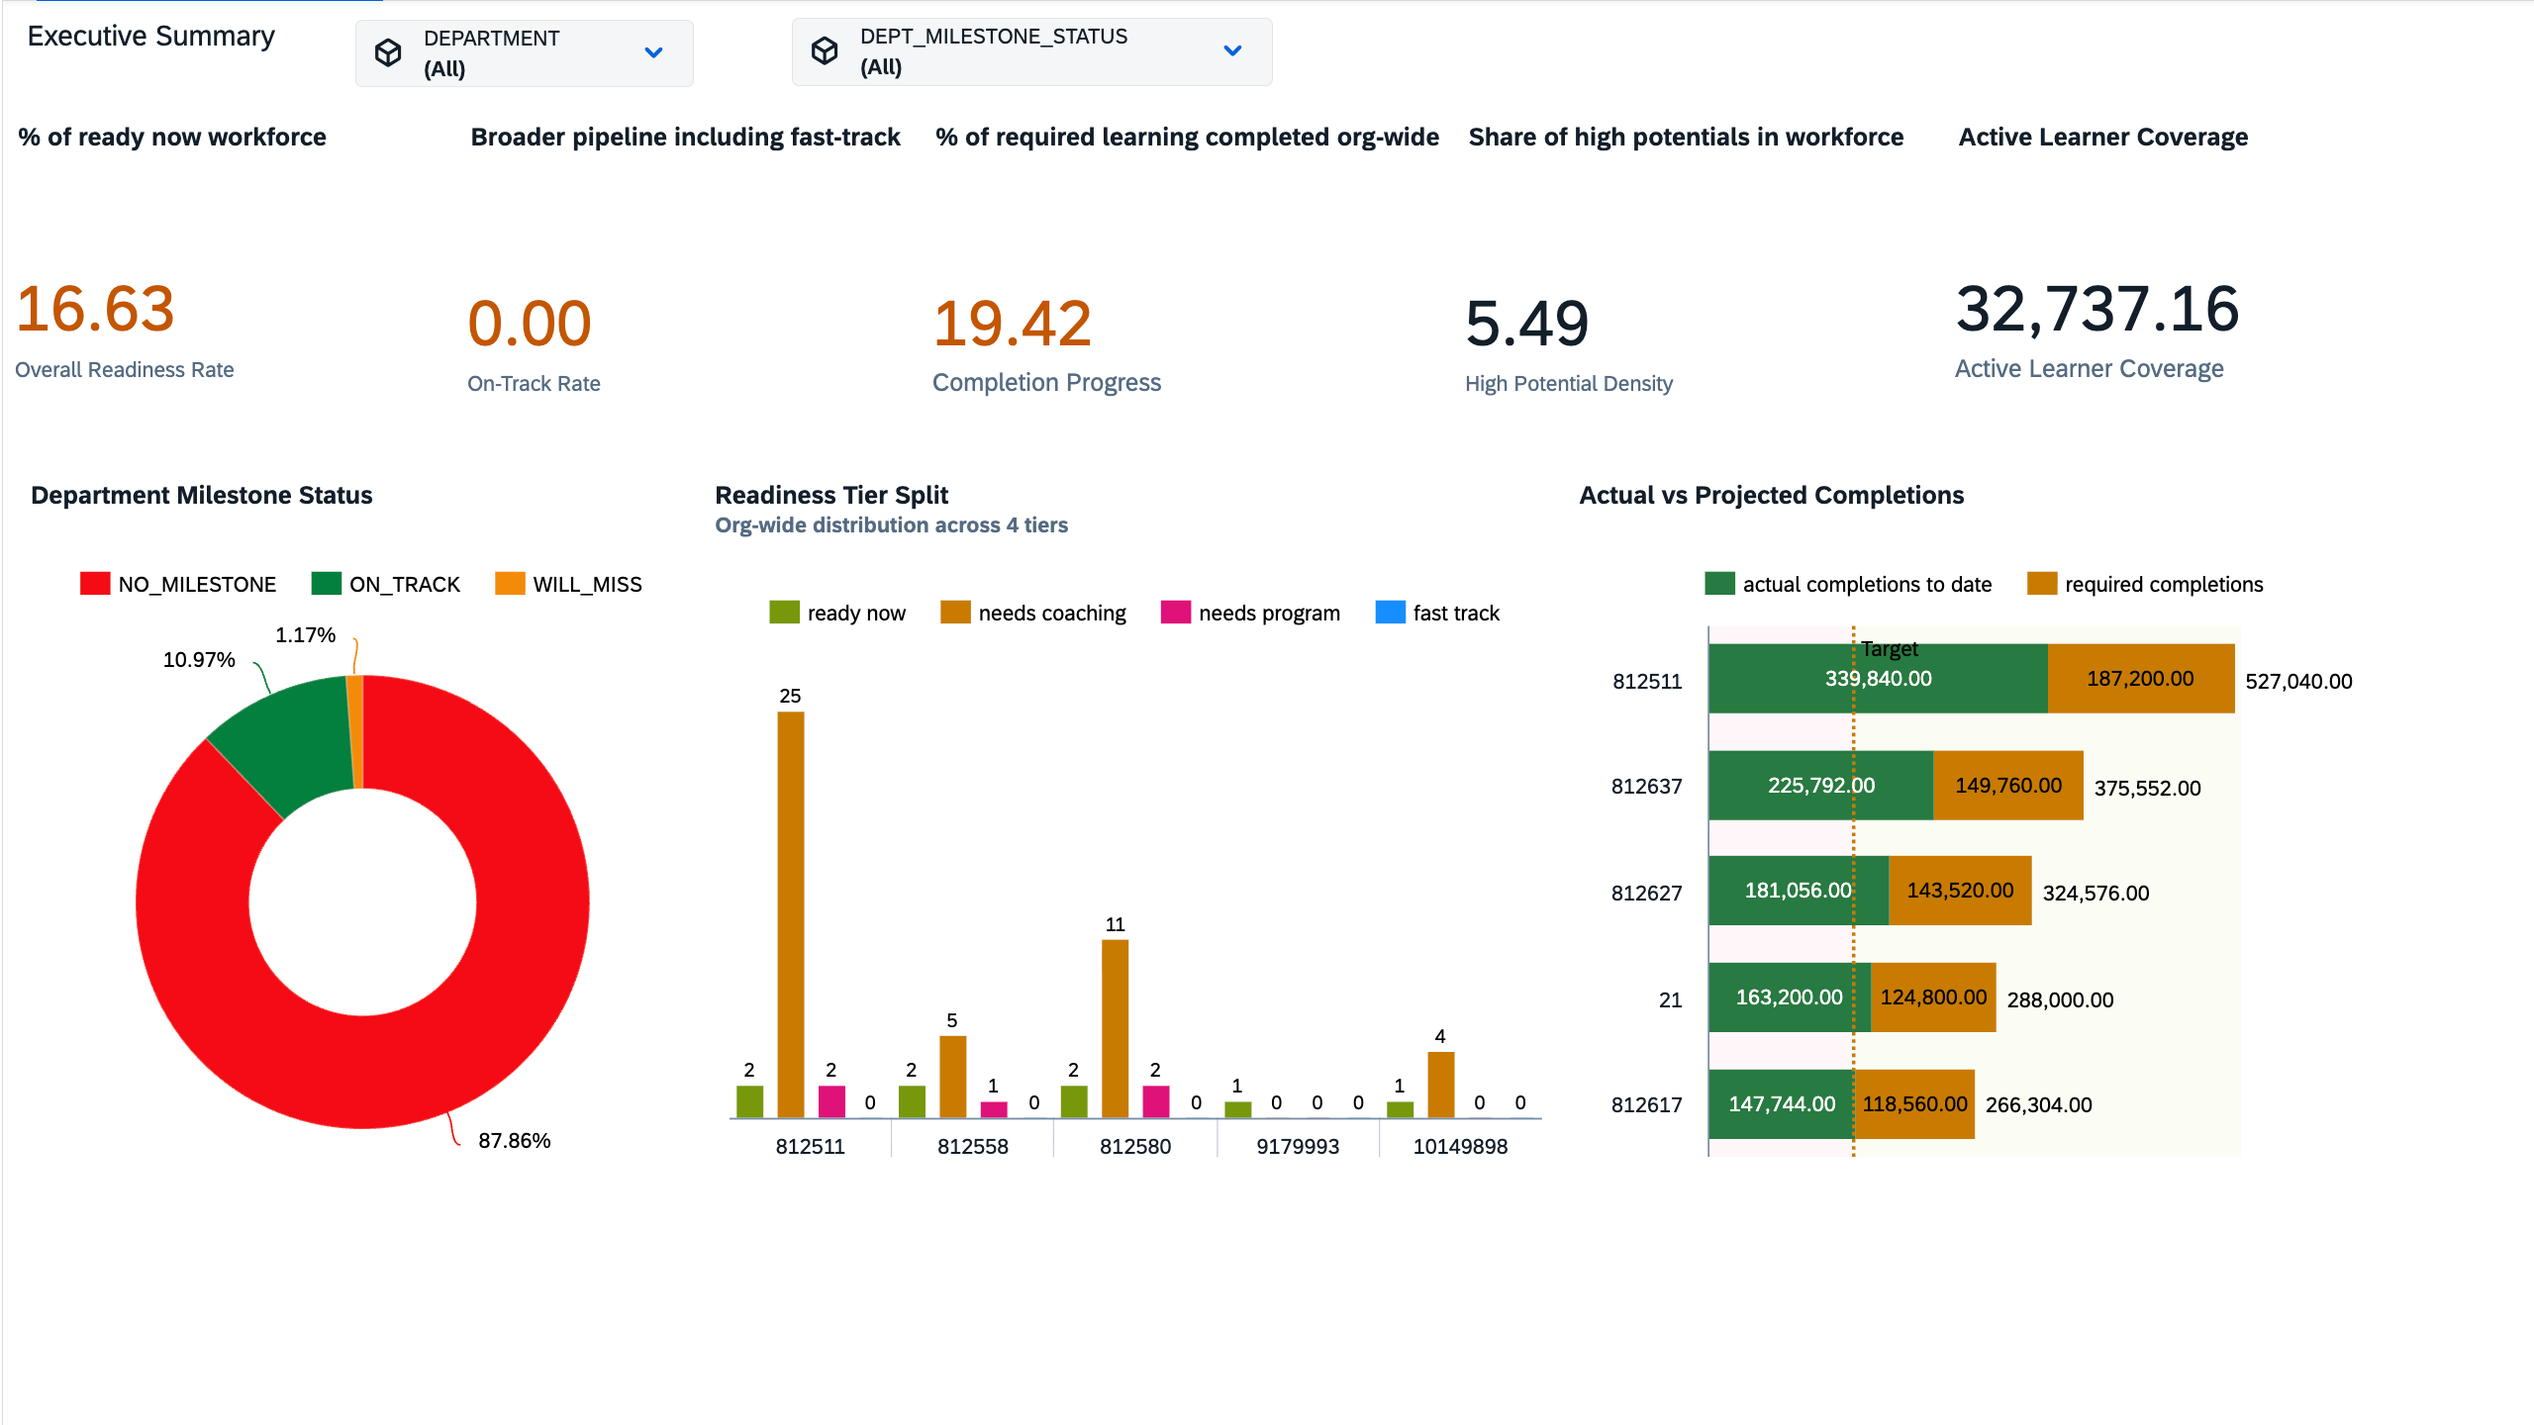
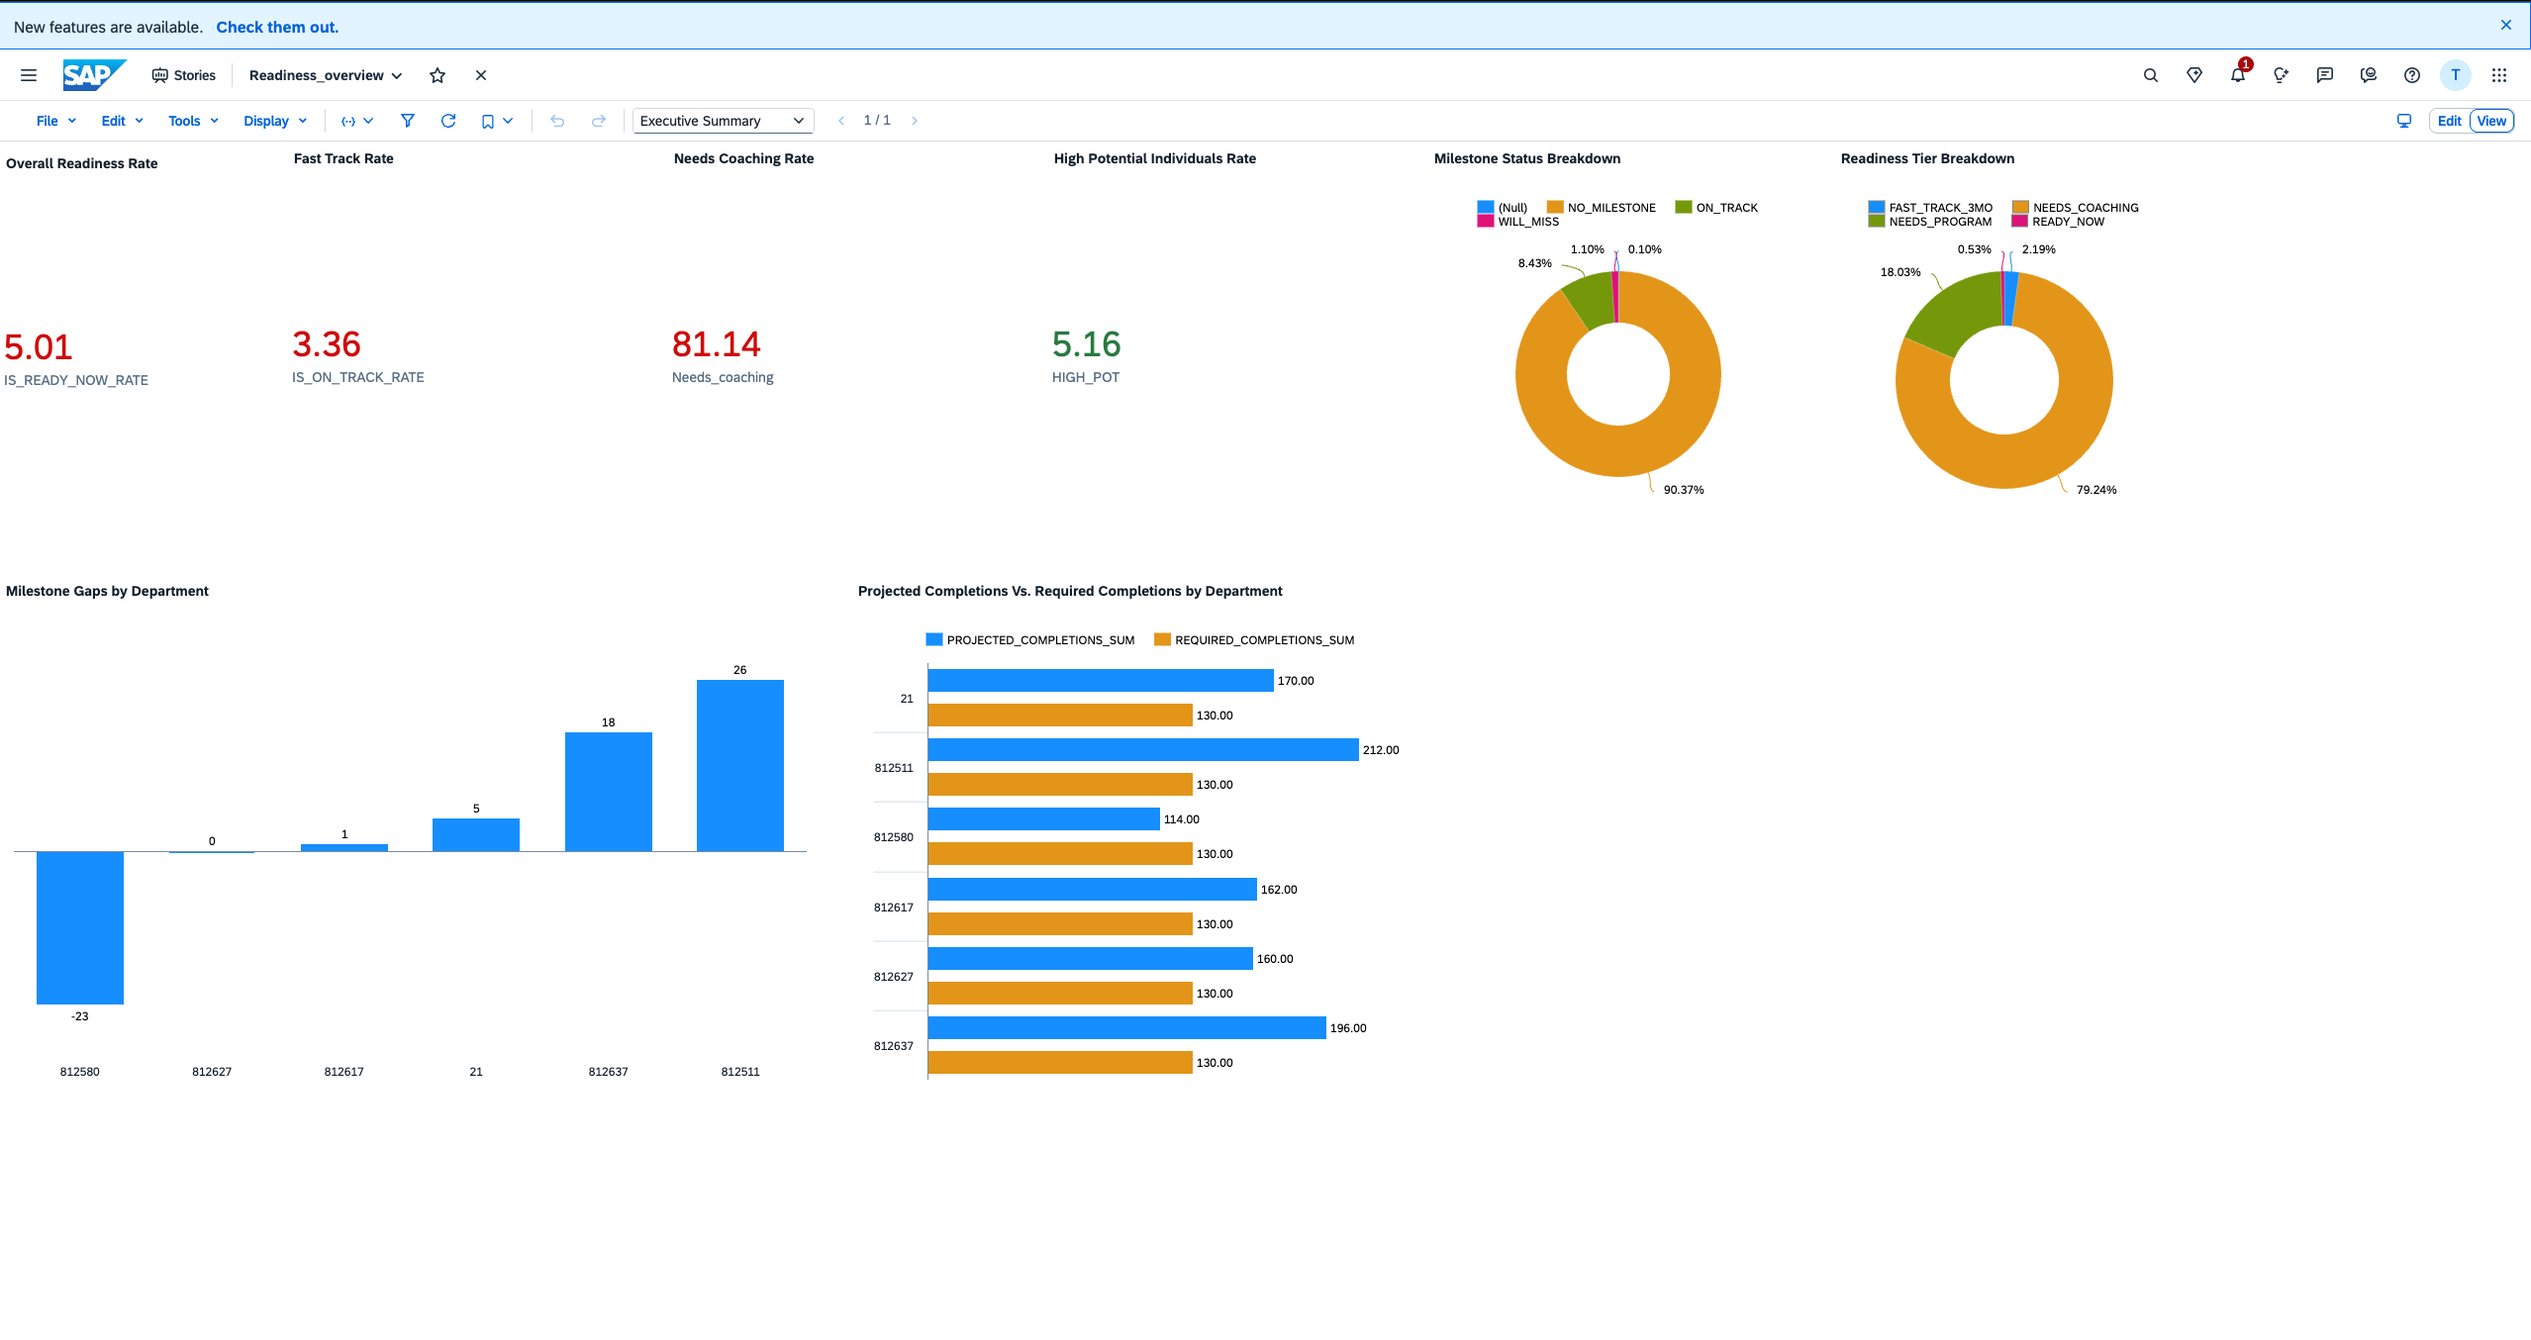
changes to SAC

diff --git a/exercises/ex6/README.md b/exercises/ex6/README.md
@@ -2,7 +2,7 @@
 
 ## Overview
 
-In this exercise, we will build the **Employee Readiness vs Forecast** dashboard in SAP Analytics Cloud. The story tracks workforce readiness levels, learning completion progress, and active learner coverage across departments and milestone statuses.
+In this exercise, we will build the **Employee Readiness vs Forecast** dashboard in SAP Analytics Cloud. The story tracks workforce readiness levels and learning completion progress across departments and milestone statuses.
 
 A Story in SAP Analytics Cloud is a reporting and visualization tool that allows users to analyse data through charts, tables, filters, and interactive dashboards. Stories can be created using imported or live data models and can be shared across the organization. The end result of this exercise will be as below.
 
@@ -16,24 +16,6 @@ Before creating a story, ensure that:
 - You have access to SAP Analytics Cloud. URL: (TODO)
 - A data model is available and accessible (built in the previous exercise)
 - You have the required permissions to create and save stories.
-- The data source contains the following dimensions and measures:
-
-| Type | Name | Description |
-|---|---|---|
-| Dimension | `Department` | Organizational unit |
-| Dimension | `Milestone_Status` | `NO_MILESTONE` · `ON_TRACK` · `WILL_MISS` |
-| Dimension | `Readiness_Tier` | `ready_now` · `needs_coaching` · `needs_program` · `fast_track` |
-| Measure | `Headcount` | Total number of employees |
-| Measure | `Ready_Now_Count` | Employees in the `ready_now` tier |
-| Measure | `On_Track_Count` | Employees on track (including fast-track) |
-| Measure | `Actual_Completions` | Learning completions recorded to date |
-| Measure | `Required_Completions` | Target completions required |
-| Measure | `Active_Learners` | Number of currently active learners |
-| Measure | `Learner_Target` | Coverage target for active learners |
-| Measure | `High_Potential_Count` | Employees flagged as high potential |
-| Measure | `Credit_Hours` | Total credit hours accumulated |
-| Measure | `Milestone_Count` | Number of milestones per department |
-
 
 ## Create Story and Import Model
 
@@ -43,30 +25,34 @@ Before creating a story, ensure that:
 1. From the SAC home screen, select **Stories**.
 2. Click on **Canvas**.
 
+### Step 2: Change Page Title
+1. Change the Page title as shown below:<br/>
 
-### Step 2: Select a Model or Dataset
+<img src="./images/pageTitle.png" width="500"/><br/>
+
+### Step 3: Select a Model or Dataset
 1. Search for your Model or Dataset in the `SAPSRC` folder and select it. <br/>
 <img src="./images/Select_Datamodel.png" width="500"/><br/>
 <img src="./images/Select_Datamodel_3.png" width="500"/><br/>
 
 2. Once the data is now connected to the story, Drag & drop **Chart** under **Widget** into the canvas.<br/>
 <img src="./images/Select_Chart_Type.png" width="500"/><br/>
-3. In the next sections, we will create the KPI tiles and charts that make up the Executive Summary page.<br/>
 
+3. In the next sections, we will create the KPI tiles and charts that make up the Executive Summary page.<br/>
 
 ---
 
 ## Create KPI Tiles — Executive Summary
 
-The top row of the dashboard contains **five Numeric Point (KPI) widgets** that display the most critical readiness metrics at a glance.
+The top row of the dashboard contains **four Numeric Point (KPI) widgets** that display the most critical readiness metrics at a glance.
 
 <img src="./images/KPI_Overview.png" width="500"/><br/>
 
-### Step 1: Insert a Numeric Point Widget
+### Insert a Numeric Point Widget
 
 1. Make sure you are on the Builder tab.
-2. Select **Numeric Point** (also labelled *KPI Tile* in some SAC versions).
-3. Resize it to occupy roughly one-fifth of the page width.
+2. Select **Numeric Point**.
+3. Resize it to occupy roughly one-sixth of the page width.
 
 <img src="./images/NumericPoint.png" width="500"/><br/>
 > **Note:**
@@ -74,269 +60,38 @@ The top row of the dashboard contains **five Numeric Point (KPI) widgets** that 
 
 ---
 
-### Step 2: Configure — Overall Readiness Rate
+### Chart 1: Overall Readiness Rate
 
-<img src="./images/Add_ORR.png" width="500"/><br/>
+### Chart 2: Fast Track Rate
 
-1. Select the KPI widget and open the **Builder** panel on the right.
-2. Under **Primary Value**, click **+ Add Measure** → **Add Calculation**.
-3. Name the measure `READINESS_RATE`.
-4. In the **Edit Formula** area, enter:
-   ```
-   [Ready_Now_Count] / [Headcount] * 100
-   ```
-5. Click **OK**.
-6. Set the **Number Format** to `Percentage` with **2 decimal places**.
-7. Under **Title**, type: `Overall Readiness Rate`
-8. Under **Subtitle**, type: `% of workforce is ready now`
-9. Set a **Color Threshold**:
-   - ≥ 20% → Green
-   - 10–20% → Amber
-   - < 10% → Red
+### Chart 3: Needs Coaching Rate
 
-<img src="./images/Define_Threshold.png" width="250"/><br/>
-<img src="./images/Threshold.png" width="250"/><br/>
-
+### Chart 4: High Potential Individual Rate
 
 ---
 
-### Step 3: Configure — On-Track Rate
+### Insert a Donut Chart Widget
+1. Make sure you are on the Builder tab.
+2. Select **Donut Chart**.
+3. Resize it to occupy roughly one-sixth of the page width on the fifth spot <br/>
+<img src="./images/donutChart.png" width="500"/><br/>
 
-1. Select the second KPI widget and open the **Builder** panel.
-2. Under **Primary Value**, click **+ Add Measure** → **Add Calculation**.
-3. Name the measure `ON_TRACK_RATE`.
-4. In the **Edit Formula** area, enter:
-   ```
-   [On_Track_Count] / [Headcount] * 100
-   ```
-5. Click **OK**.
-6. Set the **Number Format** to `Percentage` with **2 decimal places**.
-7. Under **Title**, type: `On-Track Rate`
-8. Under **Subtitle**, type: `Broader pipeline including fast-track`
-9. Set a **Color Threshold**:
-   - ≥ 20% → Green
-   - 10–20% → Amber
-   - < 10% → Red
+4. We will add one more donut chart on the top row
+
+### Chart 5: Milestone Status Breakdown
+
+
+### Chart 6: Readiness Tier Breakdown
 
 ---
+### Insert a Bar Chart Widget
+1. One the second row, add a new **Bar Chart** from the Builder tab.<br/>
+<img src="./images/barChart.png" width="500"/><br/>
 
-### Step 4: Configure — Completion Progress
+### Chart 7: Milestone Gaps By Department
 
-1. Select the third KPI widget and open the **Builder** panel.
-2. Under **Primary Value**, click **+ Add Measure** → **Add Calculation**.
-3. Name the measure `COMPLETION_PROGRESS`.
-4. In the **Edit Formula** area, enter:
-   ```
-   [Actual_Completions] / [Required_Completions] * 100
-   ```
-5. Click **OK**.
-6. Set the **Number Format** to `Percentage` with **2 decimal places**.
-7. Under **Title**, type: `Completion Progress`
-8. Under **Subtitle**, type: `% of required learning completed org-wide`
-9. Set a **Color Threshold**:
-   - ≥ 20% → Green
-   - 10–20% → Amber
-   - < 10% → Red
 
----
-
-### Step 5: Configure — High Potential Density
-
-1. Select the fourth KPI widget and open the **Builder** panel.
-2. Under **Primary Value**, click **+ Add Measure** → **Add Calculation**.
-3. Name the measure `HIGH_POT_DENSITY`.
-4. In the **Edit Formula** area, enter:
-   ```
-   [High_Potential_Count] / [Headcount] * 100
-   ```
-5. Click **OK**.
-6. Set the **Number Format** to `Percentage` with **2 decimal places**.
-7. Under **Title**, type: `High Potential Density`
-8. Under **Subtitle**, type: `Share of high potentials in workforce`
-
-
----
-
-### Step 6: Configure — Active Learner Coverage (KPI)
-
-1. Select the fifth KPI widget and open the **Builder** panel.
-2. Under **Primary Value**, click **+ Add Measure** and select `Active_Learners` directly (no formula needed).
-3. Set the **Number Format** to `Number` with **2 decimal places**.
-4. Under **Title**, type: `Active Learner Coverage`
-5. Under **Subtitle**, type: `Active learners vs. target`
-   > Expected value: **32,737.16**
-
-### Step 7: Save the Story
-
-1. Click **Save** (top-right).
-2. Enter:
-   - **Story Name**: e.g. `EmployeeReadiness_ACXXXXXXX`
-   - **Description**: `Employee Readiness vs Forecast — Executive Summary`
-   - **Folder Location**: Select your team folder
-3. Click **Save**.
-
-
----
-
-## Chart 1: Department Milestone Status
-
-This chart shows the distribution of **milestone status across departments**, split into `NO_MILESTONE`, `ON_TRACK`, and `WILL_MISS` categories, making it easy to spot which departments are at risk.
-
-<img src="./images/KPI_Overview.png" width="1000"/><br/>
-
-### Step 1: Add a Chart
-
-1. Click **Insert** from the top ribbon.
-2. Select **Chart**. Drag it onto the canvas below the KPI row on the **left side** (approx. 60% width).
-
-### Step 2: Open the Builder Configuration
-
-- The **Builder** panel opens on the right side.
-- Select the chart type — **Donut** is used for this chart.
-
-### Step 3: Assign Measures and Dimensions
-
-> [!Note]
-> See the image after step 4 for reference. This image shows the target state of the Builder configuration that we want to achieve.
-
-**Measure** — `needs_coaching`:
-1. Under **Measures**, click **+ Add Measure**.
-2. Select `needs_coaching` from the model.
-3. Click **OK** — the measure is added to the chart.
-
-### Step 4: Assign Color
-
-1. Under **Color**, click **+ Add Dimension/Threshold**.
-2. Select `Milestone_Status` — this splits each department bar into colored segments.
-   > The three members are: `NO_MILESTONE` (Red) · `ON_TRACK` (Green) · `WILL_MISS` (Amber)
-
-<img src="./images/Donut.png" width="500"/><br/>
-
-
-### Step 5: Save Changes
-
-Click **Save** to save changes.
-
-
----
-
-## Chart 2: Readiness Tier Split
-
-This chart shows the **org-wide distribution of employees** across the four readiness tiers, giving a quick view of how ready the workforce is as a whole.
-
-<img src="./images/BarColumn.png" width="500"/><br/>
-
-### Step 1: Insert a New Chart
-
-1. Click **Insert** from the top ribbon.
-2. Select **Chart**. Drag it onto the canvas to the **right of the Donut Chart** (approx. 40% width).
-
-### Step 2: Open the Builder Configuration
-
-
-
-- The **Builder** panel opens on the right side for the new chart.
-- Select the chart type — **Bar/Column** is used for this chart.
-
-### Step 3: Assign Measures and Dimensions
-
-<img src="./images/RTS_KPI.png" width="500"/><br/>
-
-**Measure** — `Headcount`:
-1. Under **Measures**, click **+ Add Measure**.
-2. Select  - `ready_now` 
-   - `needs_coaching`
-   - `needs_program`
-   - `fast_track`
-3. Click **OK** — SAC will compute the percentage contribution per slice automatically.
-
-**Dimension** — `Department`:
-1. Under **Dimensions**, click **+ Add Dimension**.
-2. Select `Department`.
-3. This splits the donut into four slices.
-
-### Step 4: Assign Color
-
-1. Under **Color**, click **+ Add Dimension/Threshold**.
-2. Assign individual colors to each tier member:
-   - `ready_now` → Green
-   - `needs_coaching` → Amber
-   - `needs_program` → Blue
-   - `fast_track` → Purple
-
-
-### Step 5: Save Changes
-
-Click **Save** to save changes.
-
-
----
-
-## Chart 3: Actual vs Projected Completions
-
-This chart compares **actual learning completions to date** against the **required completion targets**, allowing managers to assess whether the workforce is on pace.
-
-<img src="./images/AvsPC.png" width="500"/><br/>
-
-### Step 1: Insert a New Chart
-
-1. Click **Insert** from the top ribbon.
-2. Select **Chart**. Place it below Charts 1 and 2, on the **left third** of the row.
-
-### Step 2: Open the Builder Configuration
-
-
-- The **Builder** panel opens on the right side.
-- Select the chart type — **Stacked Bar/Column** is used for this chart.
-
-### Step 3: Assign Measures
-
-Under **Measures**, click **+ Add Measure** and add both measures:
-
-1. Select `Actual_Completions_to_date` — this represents completions recorded to date.
-2. Select `Required_Completions` — this is the projected target.
-
-### Step 4: Assign Dimensions
-
-1. Under **Dimensions**, click **+ Add Dimension**.
-2. Select `Department`.
-
-### Step 5: Add a Reference Line
-
-Adding a reference line highlights the completion target clearly on the chart.
-
-1. In the Builder, scroll to **Chart Add-Ons**.
-2. Click **+ Add Reference Line**.
-3. Set the axis to **Y-Axis (Value)**.
-4. Set the value to the `Required_Completions` measure (dynamic reference).
-5. Set the line style to **Dashed** and color to **Orange**.
-6. Label it: `Target`
-
-<img src="./images/AvsPC_RefLine.png" width="500"/><br/>
-
-
-
-### Step 6: Save Changes
-
-Click **Save** to save changes.
-
-
----
-
-## Add Page-Level Filters
-
-To make the dashboard interactive, add **Input Controls** so viewers can filter all charts simultaneously.
-
-<img src="./images/Filters.png" width="500"/><br/>
-
-1. Click **Insert** → **Input Control**.
-2. Select filter type **Dropdown** and bind it to the `Department` dimension. Label it `Department`.
-3. Repeat for `Milestone_Status` — use a **Multi-Select Dropdown**.
-4. Place all the Input Controls in the page header area, above the KPI tiles.
-
-> [!Note]
-> Input Controls affect all charts on the page when **Linked Analysis** is enabled. To verify, select a chart, open the **Builder**, scroll to **Linked Analysis**, and confirm **All Widgets on Page** is checked.
-
+### Chart 8: Projected Completions (12Mo. Projection) Vs. Required Completions
 
 ---
 
